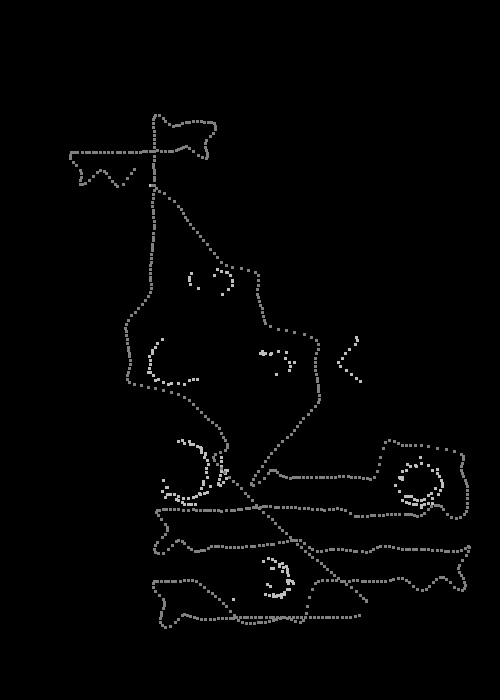
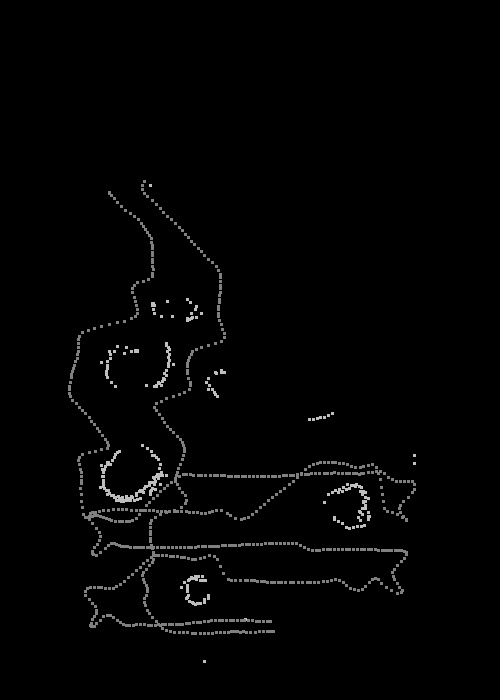
perpendiculaire pour rentrer

diff --git a/projet/main.py b/projet/main.py
@@ -13,7 +13,7 @@ from cflib.utils import uri_helper
 from drone import Drone
 
 # parties du projet
-from crossing_middle_zone import crossing_middle_zone, states as states_crossing
+from crossing_middle_zone import crossing_middle_zone,go_to_middle, states as states_crossing
 from search_platform import search_platform, states as state_search_platform
 from back_home import main_back_home
 from landing_procedure import landing_procedure
@@ -24,10 +24,11 @@ class States(Enum):
     CROSSING_MIDDLE_ZONE = 0
     SEARCHING_PLATFORM_P2 = 1
     LANDING_P2 = 2
-    GOING_HOME = 3
-    LANDING_P1 = 4
-    SEARCHING_PLATFORM_P1 = 5
-    END = 6
+    TACK_OFF_ALIGN = 3
+    GOING_HOME = 4
+    LANDING_P1 = 5
+    SEARCHING_PLATFORM_P1 = 6
+    END = 7
 
 
 if __name__ == '__main__':
@@ -64,12 +65,8 @@ if __name__ == '__main__':
                 # print(" ===== STATE START =====")
                 drone.take_off()
                 #le drone suit la ligne au centre de l'arène
-                central_line = - (Arena.ORIGIN_Y - Arena.WIDTH/2)
+                central_line = 0
                 # update de la direction par défault s'il y a un obstacle
-                if central_line > 0:
-                    states_crossing.default_direction = 1   # gauche
-                else:
-                    states_crossing.default_direction = -1  # droite
                 state = States.CROSSING_MIDDLE_ZONE
 
             if state == States.CROSSING_MIDDLE_ZONE:
@@ -94,13 +91,24 @@ if __name__ == '__main__':
                 # fonction bloquante
                 landing_procedure(drone, drone.direction, height=0.2)
                 drone.slam.save_img()
-                state = States.GOING_HOME
+                state = States.TACK_OFF_ALIGN
                 drone.take_off()
+
+            if state == States.TACK_OFF_ALIGN:
+                # print(" ===== STATE CROSSING =====")
+                # fonction continue
+                print('state tack_off_align')
+                crossed_middle_zone = go_to_middle(drone, drone.get_log('stateEstimate.x'),drone.get_log('stateEstimate.y'))
+
+                if crossed_middle_zone:
+                    state = States.GOING_HOME
+                    # time.sleep(2)
 
             if state == States.GOING_HOME:
                 # print(" ===== STATE GOING HOME =====")
 
                 # fonction continue
+                print('state going home')
                 going_home_line = 0
                 arrived_home, on_platform = main_back_home(drone, going_home_line, height=0.2)
                 if arrived_home and on_platform:

diff --git a/projet/crossing_middle_zone.py b/projet/crossing_middle_zone.py
@@ -21,11 +21,27 @@ class states():
     time_since_obstacle = 0    # temps depuis le dernier obstacle vu
     time_choice = 0            # le temps diffère selon l'obstacle est frontal ou latéral
 
+def go_to_middle(drone:Drone, central_line, pos_y):
+
+        SPEED_FORWARD = 0.3
+        SPEED_LATERAL = 0.3
+        if pos_y > 0:
+            direction = Direction.RIGHT
+        else:
+            direction = Direction.LEFT
+        # Vérifie l'arrivée dans la zone de la seconde plateforme et la présence d'obstacles
+        arrival = aligned_plateform(drone)
+        speed_x, speed_y = obstacle_detection(drone, central_line, forward_speed=SPEED_FORWARD, lateral_come_back_speed=SPEED_LATERAL, direction=direction)
+            
+        if not arrival: 
+            drone.start_linear_motion(speed_x, speed_y, 0)            
+
+        return arrival
+
 def crossing_middle_zone(drone:Drone, central_line):
 
         SPEED_FORWARD = 0.3
         SPEED_LATERAL = 0.3
-
         # Vérifie l'arrivée dans la zone de la seconde plateforme et la présence d'obstacles
         arrival = zone_P2_detection(drone)
         speed_x, speed_y = obstacle_detection(drone, central_line, forward_speed=SPEED_FORWARD, lateral_come_back_speed=SPEED_LATERAL, direction=Direction.FORWARD)
@@ -49,7 +65,7 @@ def obstacle_detection(drone:Drone, line_coord, forward_speed, lateral_come_back
     # ======= adaptation de la distance latérale ==============
     # si le drone est sur la bonne trajectoire, il sera moins sensible que s'il revient en position
     if drone.on_track:
-        AVOID_DIST_LAT = 65
+        AVOID_DIST_LAT = 75
     else:
         AVOID_DIST_LAT = 160
 
@@ -184,6 +200,13 @@ def obstacle_detection(drone:Drone, line_coord, forward_speed, lateral_come_back
     
     return speed_x, speed_y
 
+def aligned_plateform(drone:Drone):
+    arrival = False
+
+    if drone.get_log('stateEstimate.y') < 0+0.25 and drone.get_log('stateEstimate.y') > 0-0.25:
+        arrival = True
+
+    return arrival
 
 def zone_P2_detection(drone:Drone):
     """ vérifie quand le drone arrive dans la zone de la plateforme d'arrivée """

diff --git a/projet/landing_procedure.py b/projet/landing_procedure.py
@@ -187,7 +187,7 @@ def go_to_P(drone:Drone, x, y):
         position_estimate[1] = drone.get_log('stateEstimate.y')
 
         # essaye de revenir au centre de la boite
-        if error > 0.02 :
+        if error > 0.03 :
             landing_speed = -0.1
             P = 5.5
             err_x = (position_estimate[0]-x)
